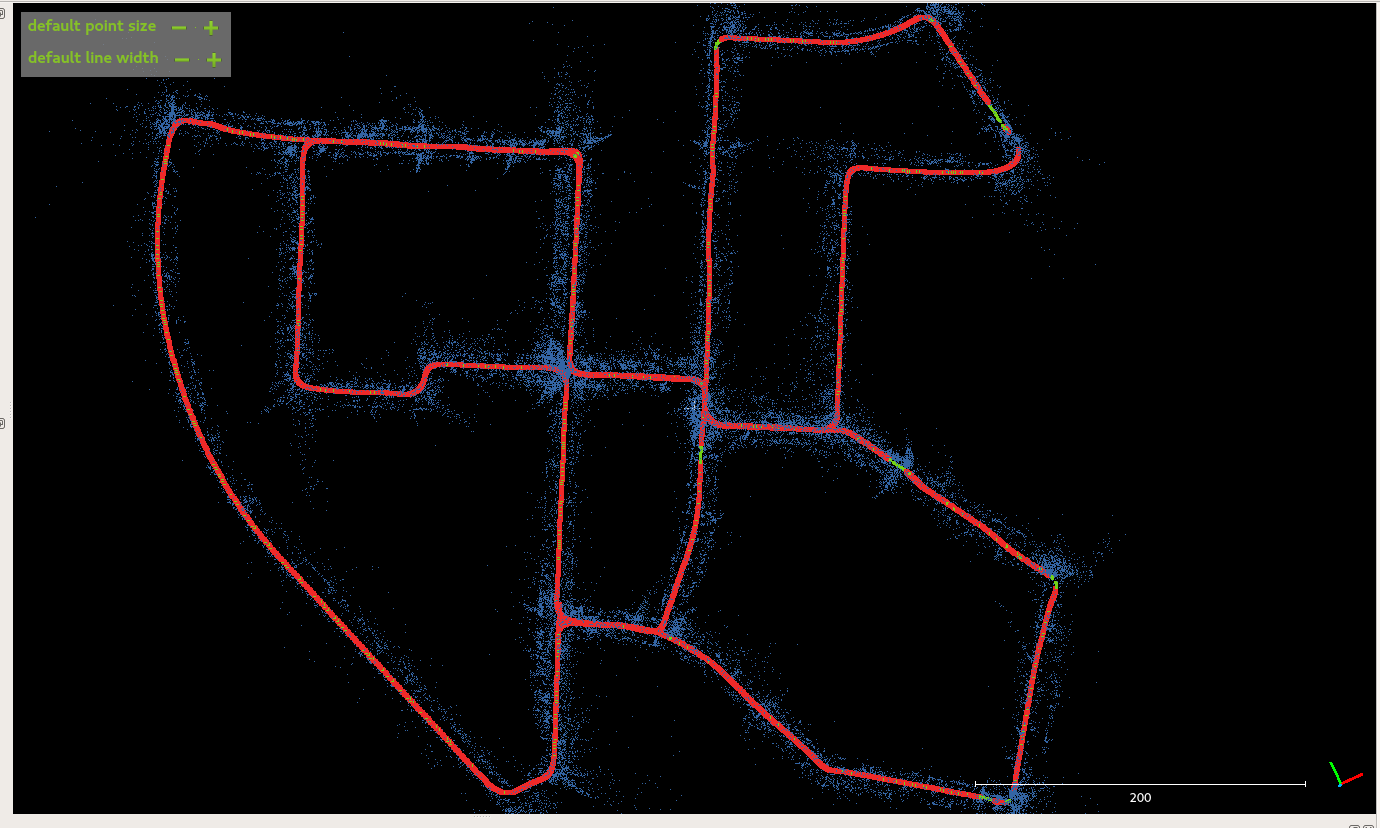
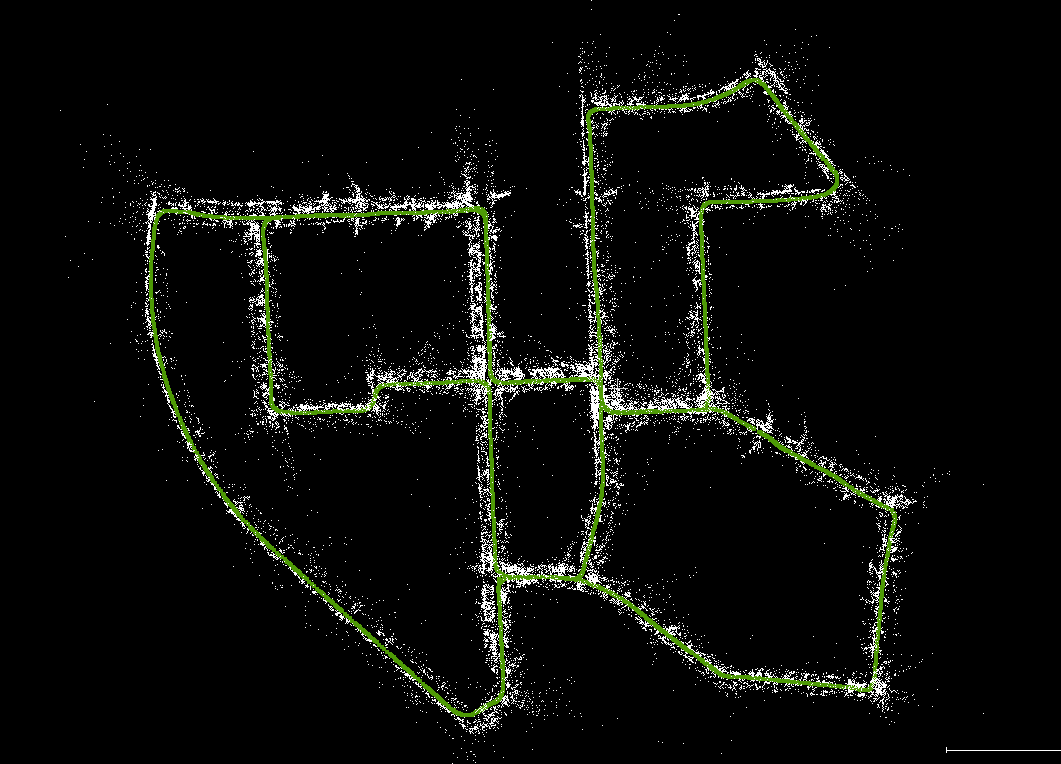
lever arm and visualization

Changed region(s): [[0.0, 0.0, 1.0, 1.0]]

diff --git a/GVIO.cpp b/GVIO.cpp
@@ -120,8 +120,8 @@ int main() {
     cv::viz::Viz3d vis("Visual Odometry");
     cv::viz::WCoordinateSystem world_coor(30.0), camera_coor(30.5);
     vis.setBackgroundColor(cv::viz::Color::black());// 设置背景颜色
-    world_coor.setRenderingProperty(cv::viz::LINE_WIDTH, 1.0);
-    camera_coor.setRenderingProperty(cv::viz::LINE_WIDTH, 5.0);
+    world_coor.setRenderingProperty(cv::viz::LINE_WIDTH, 10.0);
+    camera_coor.setRenderingProperty(cv::viz::LINE_WIDTH, 10.0);
     vis.showWidget("World", world_coor);
     vis.showWidget("Camera", camera_coor);
     vector<cv::viz::WLine> lines;
@@ -168,13 +168,11 @@ int main() {
     cv::cv2eigen(cam_K, cam_k_eigen);
     gtsam::Cal3_S2::shared_ptr cam_K_gtsam(new Cal3_S2(FX, FY, 0.0, CX, CY));
 
-    auto noise_model_gps_new = noiseModel::Isotropic::Sigma(3, 0.007);
+    auto noise_model_gps_new = noiseModel::Isotropic::Sigma(3, 0.1);
 
-    auto noise_model_pt2d = noiseModel::Isotropic::Sigma(2, 15.0);  // 2D 图像观测误差模型
+    auto noise_model_pt2d = noiseModel::Isotropic::Sigma(2, 5.0);  // 2D 图像观测误差模型
     auto noise_model_pt2d_robust = noiseModel::Robust::Create(gtsam::noiseModel::mEstimator::Huber::Create(4),
                                                               noise_model_pt2d);
-
-//    auto noise_model_pt2d_robust = noiseModel::Isotropic::Sigma(2, 4.0);
 
 //    size_t gps_counter = 1450 + 1200, img_counter = 0, imu_counter = 0;
     size_t gps_counter = 0, img_counter = 0, imu_counter = 0;
@@ -282,8 +280,6 @@ int main() {
 
                 cout << fixed << setprecision(9) << gps_time << " " << img_time << " " << t_previous << endl;
                 cout << "after error = " << graph.error(values) << endl;
-
-
                 current_summarized_measurement = std::make_shared<PreintegratedImuMeasurements>(imu_params,
                                                                                                 current_bias);
                 static size_t included_imu_measurement_count = 0;
@@ -393,10 +389,6 @@ int main() {
                                                                               B(gps_frame_id)).cast<imuBias::ConstantBias>());
                     auto img_pose = Pose3(Rot3(predict.R()), predict.t());
 
-//                    cout << gps_time << " " << total_Dt << endl;
-//                    cout << img_pose << endl;
-//                    cout << predict.velocity() << endl;
-
                     values.insert(X(frame_counter), img_pose);
                     values.insert(V(frame_counter), predict.velocity());
                     values.insert(B(frame_counter), current_bias);
@@ -413,10 +405,8 @@ int main() {
                     t_previous = img_time;
                 }
 
-                //三角化所有的track TODO 检查视差的三角化
                 int cnt = 0;
                 int cnt_tri = 0;
-//                cout << "track num: " << tracker->all_tracks.size() << endl;
                 for (auto track: tracker->all_tracks) {
                     if (track.imgIdAndPtID.size() < 3)
                         continue;
@@ -433,7 +423,6 @@ int main() {
                                 Pose3 cam_pose = imu_pose.compose(C2I);
                                 poses.push_back(cam_pose);
                                 measurements.push_back(Point2(j.undistort_pts[pt_id].x, j.undistort_pts[pt_id].y));
-//                                measurements.push_back(Point2(j.distort_pts[pt_id].x, j.distort_pts[pt_id].y));
                                 poseIdx.push_back(img_frame_id2global_frame_id[frame_id]);
                                 frame_idx.emplace_back(frame_id);
                             }
@@ -478,21 +467,14 @@ int main() {
                     }
                 }
 
-//                cout << cnt << endl;
-//                cout << cnt_tri << endl;
-//                cout << "initial error = " << graph.error(values) << endl;
                 LevenbergMarquardtParams params;
                 LevenbergMarquardtParams::SetCeresDefaults(&params);
-//                values = LevenbergMarquardtOptimizer(graph, values, params).optimize();
+//                params.maxIterations = 3;
                 SLIDEWINDOW->update_with_marg_keys(graph, values);
                 values = SLIDEWINDOW->calculateEstimate();//TODO values始终维持滑窗里面的数据 graph
-//                cout << "final error = " << graph.error(values) << endl;
-
                 processImg = false;
                 initialized = true;
-//                cout << "============================ init finished " << endl;
                 graph.resize(0);
-//                return true;
             }
 
         } else//TODO 初始化完成
@@ -594,9 +576,9 @@ int main() {
                     marg_keys.push_back(V(front_idx));
                     marg_keys.push_back(B(front_idx));
 
-
                     LevenbergMarquardtParams params;
                     LevenbergMarquardtParams::SetCeresDefaults(&params);
+                    params.maxIterations = 3;
                     auto res = SLIDEWINDOW->update_with_marg_keys(graph, values_new, marg_keys);
                     values = SLIDEWINDOW->calculateEstimate();//TODO values始终维持滑窗里面的数据 graph
                     cout << "iterations: " << res.iterations << " errors: " << res.error << endl;
@@ -621,7 +603,6 @@ int main() {
                     incorrect_angle = false;
 
                 } else {
-
                     while (img_measurements[img_counter].time < t_previous + tag) //找到在GPS之后最近的一帧图像
                         img_counter++;
 
@@ -637,7 +618,6 @@ int main() {
                                                                                                     current_bias);
                     static size_t included_imu_measurement_count = 0;
                     double total_Dt = 0;
-//                    cout << "img time: " << img_time << " imu time: " << imu_measurements[imu_counter].time << endl;
                     while (imu_counter < imu_measurements.size() && imu_measurements[imu_counter].time <= img_time) {
                         if (imu_measurements[imu_counter].time >= t_previous) {
                             if (imu_measurements[imu_counter].dt > 0) {
@@ -652,14 +632,12 @@ int main() {
                         }
                         imu_counter++;
                     }
-//                    cout << "imu time: "<< imu_measurements[imu_counter].time << "total dt " << total_Dt << endl;
                     if ((imu_measurements[imu_counter].time - img_time > 0.1) || (total_Dt < 0.012))
                         total_Dt = 0.5;
 
                     Pose3 img_pose_c;
 
 //                    included_imu_measurement_count = 1;
-
                     if (total_Dt < 0.3) { //只有积分是对的才加他
                         if(values.exists(B(frame_counter - 1))) {
                             graph.emplace_shared<ImuFactor>(X(frame_counter - 1), V(frame_counter - 1),
@@ -743,7 +721,6 @@ int main() {
                     if (objectPoints.size() > 20) {
                         cv::solvePnPRansac(objectPoints, imagePoints, cam_K, cv::Mat(),
                                            rvec_cv, tvec_cv, false, 3000, 4, 0.99, inliers, cv::SOLVEPNP_ITERATIVE);
-
                         Eigen::Isometry3d MAT(Eigen::Matrix4d::Identity());
                         Eigen::Vector3d EigenTvec;
                         Eigen::Vector3d EigenRvec;
@@ -795,7 +772,6 @@ int main() {
                             }
 
                             initialized_pts.emplace_back(cur_frame->distort_pts[i]);
-
 //                            auto pt3d = values.at<Point3>(L(track_id));
 //                            auto factor = SimpleProjectionFactor<Pose3,Cal3_S2>(
 //                                    Point2(cur_frame->undistort_pts[i].x, cur_frame->undistort_pts[i].y),
@@ -804,14 +780,11 @@ int main() {
 //                            gtsam::Matrix H1;
 //                            factor.evaluateError(imu_pose,H1);
 //                            cout << H1 << endl;
-
                             auto factor = GenericProjectionFactor<Pose3, Point3, Cal3_S2>(
                                     Point2(cur_frame->undistort_pts[i].x, cur_frame->undistort_pts[i].y),
                                     noise_model_pt2d_robust, X(frame_counter), L(track_id),
                                     cam_K_gtsam,
                                     C2I);
-//                            gtsam::Matrix H1, H2;
-//                            factor.evaluateError(imu_pose,pt3,H1, H2);
 
                             graph.emplace_shared<GenericProjectionFactor<Pose3, Point3, Cal3_S2> >(
                                     Point2(cur_frame->undistort_pts[i].x, cur_frame->undistort_pts[i].y),
@@ -888,10 +861,8 @@ int main() {
                                         continue;
 
                                     track.active = true;
-
                                     auto pointNoise = noiseModel::Isotropic::Sigma(3, 50);
                                     graph.addPrior(L(track.id), pt3d, pointNoise);  // add directly to graph
-//                                    cout << "--------------- "  << track.id << " " << distance << " " << measurement_para << endl;
                                     values_new.insert(L(track.id), pt3d);
                                     values.insert(L(track.id), pt3d);
                                     valid_l_idx[track.id] = 0;
@@ -925,6 +896,7 @@ int main() {
                             }
                         }
                     }
+
                     showTracking(cur_frame->img, initialized_pts, uninitialized_pts, track_len, marged_pts);
                     //构建出需要被边缘化的东西
                     KeyVector marg_keys;
@@ -954,7 +926,6 @@ int main() {
                     auto tvec = pose.translation();
                     auto tvec_cam = img_pose.translation();
                     fprintf(fp_pose, "%f,%f,%f\n", tvec.x(), tvec.y(), tvec.z());
-//                    cout << "----------" << frame_counter << endl << endl;
                     for (auto i: frame.host_track) {
                         if (valid_l_idx.count(i) > 0) {
                             auto pt3 = values.at<Point3>(L(i));
@@ -1008,6 +979,7 @@ int main() {
                     //求解 边缘化
                     LevenbergMarquardtParams params;
                     LevenbergMarquardtParams::SetCeresDefaults(&params);
+                    params.maxIterations = 3;
                     auto res = SLIDEWINDOW->update_with_marg_keys(graph, values_new, marg_keys);
                     values = SLIDEWINDOW->calculateEstimate();//TODO values始终维持滑窗里面的数据 graph
                     cout << "iterations: " << res.iterations << " errors: " << res.error << endl;

diff --git a/includes/SlideWindow.h b/includes/SlideWindow.h
@@ -12,9 +12,12 @@ namespace gtsam
     class SlideWindow : public BatchFixedLagSmoother{
     public:
 
+        bool withMarginal_ = true;
+
         /** default constructor */
-        SlideWindow(double smootherLag = 0.0, const LevenbergMarquardtParams& parameters = LevenbergMarquardtParams(), bool enforceConsistency = true) :
-                BatchFixedLagSmoother(smootherLag,parameters,enforceConsistency) { };
+        SlideWindow(double smootherLag = 0.0,bool withMarginal = true, const LevenbergMarquardtParams& parameters = LevenbergMarquardtParams(),
+                    bool enforceConsistency = true) :
+                BatchFixedLagSmoother(smootherLag,parameters,enforceConsistency),withMarginal_(withMarginal) { };
 
         /** destructor */
         ~SlideWindow() override { };
@@ -107,7 +110,8 @@ namespace gtsam
             eraseKeysWithoutTime(marginalizeKeys);
 
             // Insert the new marginal factors
-            insertFactors(marginalFactors);
+            if(withMarginal_)
+                insertFactors(marginalFactors);
         }
 
         void eraseKeysWithoutTime(const KeyVector& keys) {

diff --git a/includes/feature_tracker.h b/includes/feature_tracker.h
@@ -25,7 +25,7 @@ void reduceVector(vector<int> &v, vector<uchar> status);
 
 class FeatureTracker {
 public:
-    FeatureTracker();
+    FeatureTracker(bool withMarginal=false);
 
     bool readImage(const cv::Mat &_img);
 
@@ -62,6 +62,9 @@ public:
 
     int frame_id = 0;
     int track_id = 0;
+
+    bool withMarginal_ = true;
+    int trackUpdateTag = 0;
 };
 
 #endif //GVIO_FEATURE_TRACKER_H

diff --git a/scripts/convert_data.py b/scripts/convert_data.py
@@ -1,5 +1,4 @@
 import os
-import pyproj
 import numpy as np
 from geo import *
 

diff --git a/README.md b/README.md
@@ -1,5 +1,27 @@
-轨迹和对应的特征点
-![image](picture/pose.png)
+Tightly Coupled GNSS-Visual-Inertial Positioning System Using GTSAM
 
+这是一个实验性质的紧耦合GNSS、惯导、视觉的定位系统。
+
+目的是设计一个融合定位系统，多传感器相互协同。多传感器工作正常时相互融合提高精度，有传感器挂掉其他传感器及时顶上维持轨迹递推。
+
+外部依赖库包括两个： 
+GTSAM 我用的是4.0.0 最新版本的应该也OK
+OPENCV 3.2.0
+
+#具体使用方法：
+
+把下载的KITTI数据组织成如下形式：
+![image](picture/folders.png)
+
+将一级目录绝对路径输入script/convert_data.py然后执行得到解析数据。
+
+配置GVIO.cpp以对应数据路径开跑。
+
+
+
+
+轨迹和对应的特征点，图中红色部分为KITTI RTK信号，缺漏部分即没有IMU也没有RTK信号，单纯依靠VO进行推演。
+![image](picture/pose.png)
+![image](picture/RTK.png)
 给代码加上了轨迹可视化的模块
-![image](picture/screenshot.png)
+![image](picture/shot.png)
